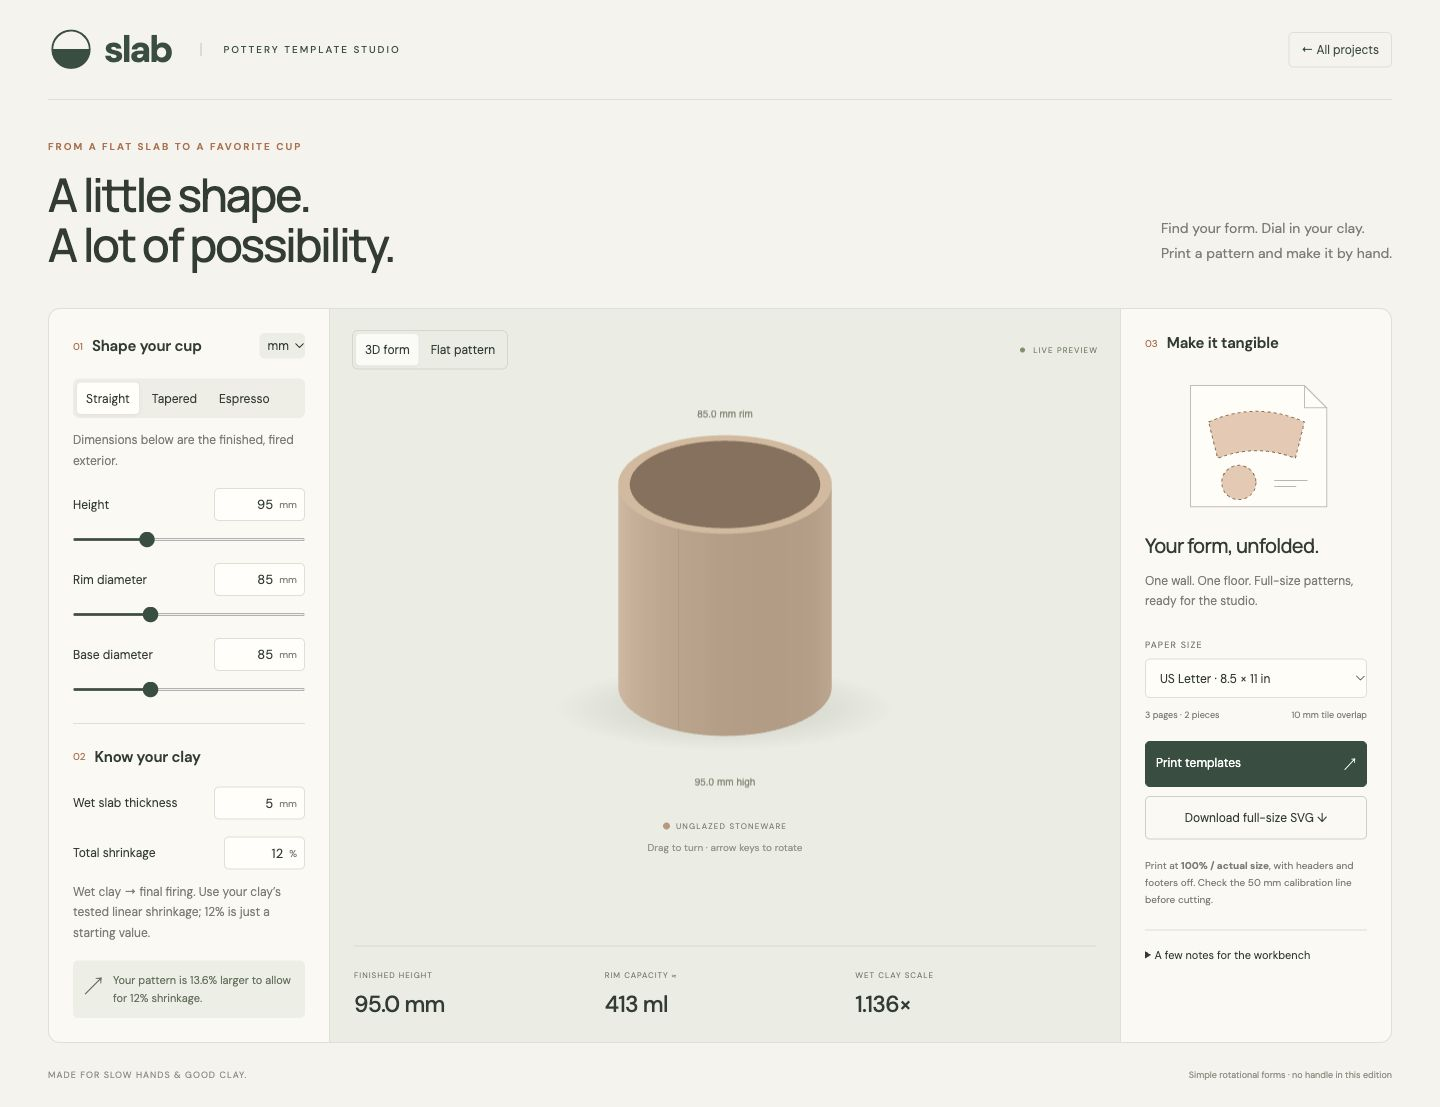
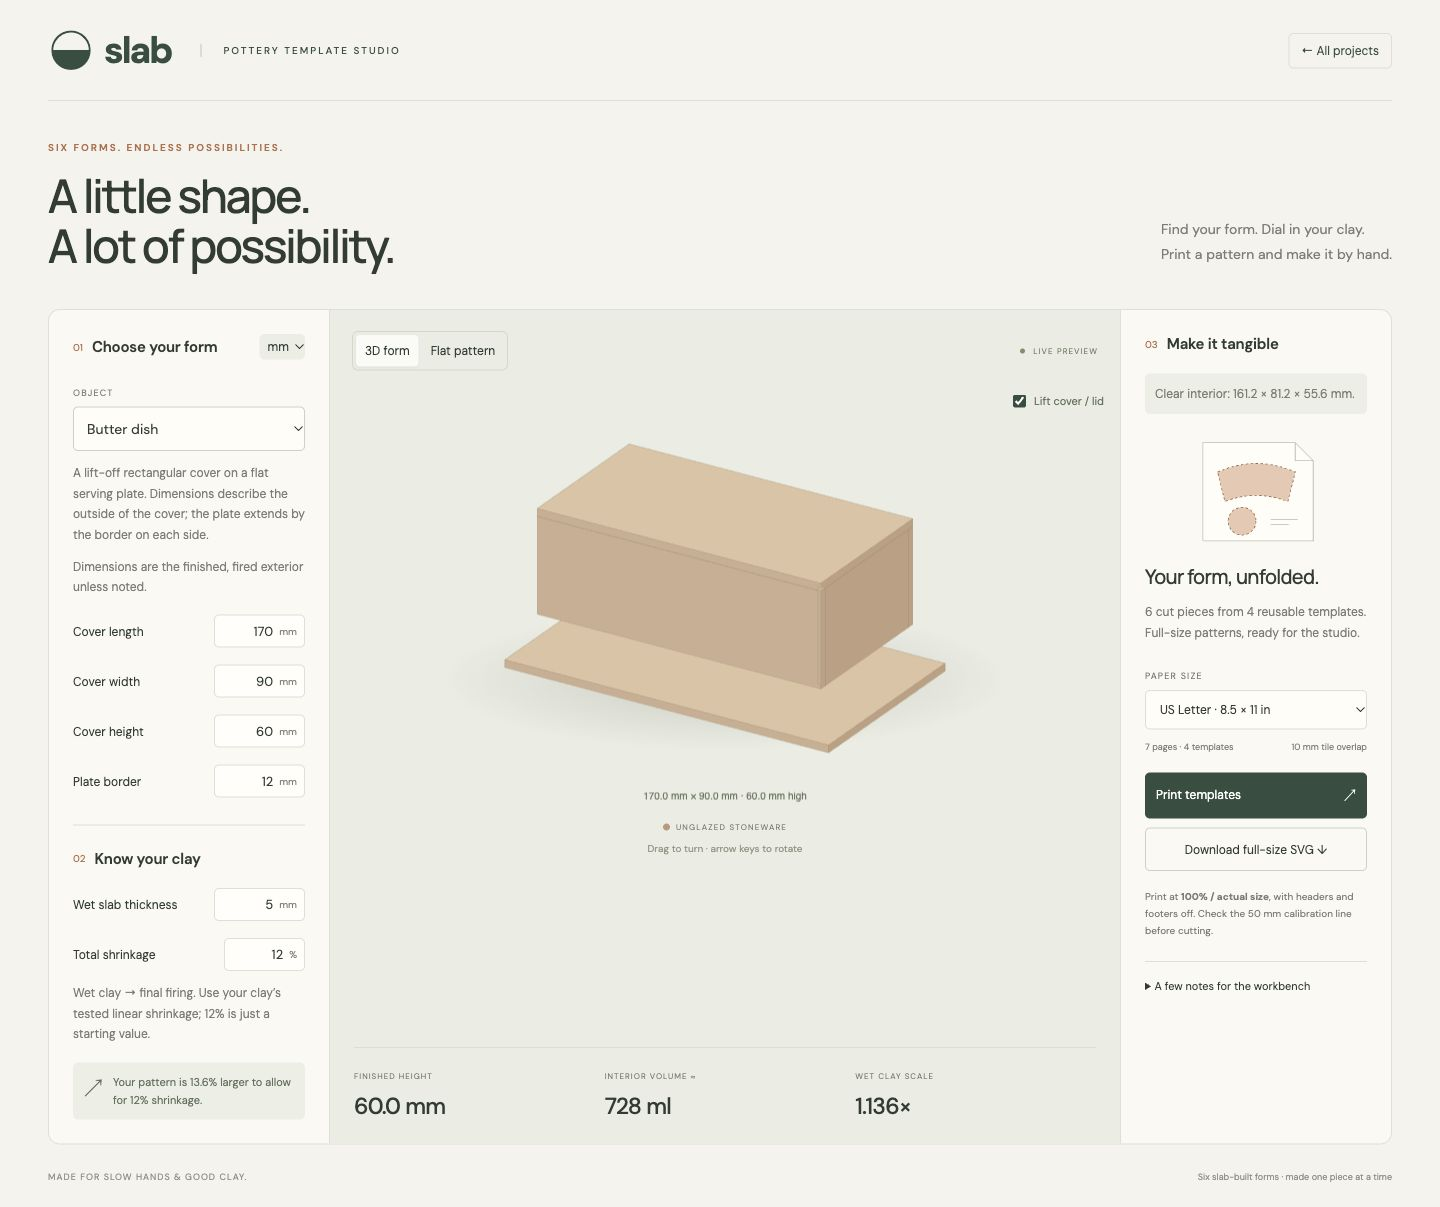
Add five parametric pottery forms with printable parts

diff --git a/pottery-template/index.html b/pottery-template/index.html
@@ -1,21 +1,17 @@
 <!doctype html>
-<html lang="en"><head><meta charset="utf-8"><meta name="viewport" content="width=device-width, initial-scale=1"><meta name="theme-color" content="#eeeae1"><meta name="description" content="Design a slab-built pottery cup. Adjust finished dimensions and clay shrinkage, then print full-size cutting templates."><title>Slab — a pottery template studio</title><link rel="stylesheet" href="style.css?v=2"><script type="module" src="app.mjs?v=2"></script></head>
+<html lang="en"><head><meta charset="utf-8"><meta name="viewport" content="width=device-width, initial-scale=1"><meta name="theme-color" content="#eeeae1"><meta name="description" content="Design slab-built cups, butter dishes, bowls, vases, planters, and lidded boxes. Adjust finished dimensions and clay shrinkage, then print full-size cutting templates."><title>Slab — a pottery template studio</title><link rel="stylesheet" href="style.css?v=4"><script type="module" src="app.mjs?v=4"></script></head>
 <body><main id="studio"><header><a class="brand" href="../index.html" aria-label="Slab — back to all projects"><span class="logo">◒</span> slab<span class="brand-note">POTTERY TEMPLATE STUDIO</span></a><a class="home-link" href="../index.html">← All projects</a></header>
-<section class="intro"><div><p class="eyebrow">FROM A FLAT SLAB TO A FAVORITE CUP</p><h1>A little shape.<br>A lot of possibility.</h1></div><p>Find your form. Dial in your clay.<br>Print a pattern and make it by hand.</p></section>
-<div class="workspace"><aside class="controls"><div class="section-title"><span>01</span><h2>Shape your cup</h2><select id="unit" aria-label="Measurement unit"><option value="mm">mm</option><option value="in">in</option></select></div>
-<div class="presets" aria-label="Cup presets"><button data-preset="straight" class="active">Straight</button><button data-preset="taper">Tapered</button><button data-preset="small">Espresso</button></div>
-<p class="hint">Dimensions below are the finished, fired exterior.</p>
-<div class="field"><label for="height">Height</label><div><input id="height" type="number" min="40" max="220" step="1" value="95"><span class="unit">mm</span></div></div><input class="slider" id="heightRange" aria-label="Height slider" type="range" min="40" max="220" value="95">
-<div class="field"><label for="top">Rim diameter</label><div><input id="top" type="number" min="40" max="180" value="85"><span class="unit">mm</span></div></div><input class="slider" id="topRange" aria-label="Rim diameter slider" type="range" min="40" max="180" value="85">
-<div class="field"><label for="bottom">Base diameter</label><div><input id="bottom" type="number" min="40" max="180" value="85"><span class="unit">mm</span></div></div><input class="slider" id="bottomRange" aria-label="Base diameter slider" type="range" min="40" max="180" value="85">
+<section class="intro"><div><p class="eyebrow">SIX FORMS. ENDLESS POSSIBILITIES.</p><h1>A little shape.<br>A lot of possibility.</h1></div><p>Find your form. Dial in your clay.<br>Print a pattern and make it by hand.</p></section>
+<div class="workspace"><aside class="controls"><div class="section-title"><span>01</span><h2>Choose your form</h2><select id="unit" aria-label="Measurement unit"><option value="mm">mm</option><option value="in">in</option></select></div>
+<label class="paper-label" for="form">OBJECT</label><select id="form"><option value="cup">Cup</option><option value="butter">Butter dish</option><option value="bowl">Shallow bowl</option><option value="vase">Vase</option><option value="planter">Rectangular planter</option><option value="box">Lidded box</option></select><p class="hint" id="formDescription"></p><p class="hint">Dimensions are the finished, fired exterior unless noted.</p><div id="dimensions"></div>
 <div class="section-title divided"><span>02</span><h2>Know your clay</h2></div>
 <div class="field"><label for="thickness">Wet slab thickness</label><div><input id="thickness" type="number" min="2" max="12" step="0.5" value="5"><span class="unit">mm</span></div></div>
 <div class="field"><label for="shrink">Total shrinkage</label><div><input id="shrink" type="number" min="0" max="25" step="0.5" value="12"><span>%</span></div></div>
 <p class="hint">Wet clay → final firing. Use your clay’s tested linear shrinkage; 12% is just a starting value.</p><p id="error" role="alert"></p>
 <div class="clay-note"><span>↗</span><p id="shrinkNote"></p></div></aside>
 <section class="visual"><div class="view-bar"><div class="tabs" role="group" aria-label="Preview mode"><button id="formTab" class="active">3D form</button><button id="patternTab">Flat pattern</button></div><span class="live"><i></i> LIVE PREVIEW</span></div>
-<div id="formView"><canvas id="cup" aria-label="Three-dimensional preview of the finished cup. Drag to rotate." tabindex="0"></canvas><div class="preview-caption"><span class="clay-dot"></span> UNGLAZED STONEWARE <span>Drag to turn · arrow keys to rotate</span></div></div>
+<div id="formView"><label id="lidControl" hidden><input id="liftLid" type="checkbox" checked> Lift cover / lid</label><canvas id="cup" aria-label="Three-dimensional preview of the finished object. Drag to rotate." tabindex="0"></canvas><div class="preview-caption"><span class="clay-dot"></span> UNGLAZED STONEWARE <span>Drag to turn · arrow keys to rotate</span></div></div>
 <div id="patternView" hidden><div id="flat"></div><p class="pattern-caption">Wet clay cutting patterns · preview is not to scale</p></div>
-<div class="stats"><div><span>FINISHED HEIGHT</span><strong id="statHeight"></strong></div><div><span>RIM CAPACITY ≈</span><strong id="statVolume"></strong></div><div><span>WET CLAY SCALE</span><strong id="statScale"></strong></div></div></section>
-<aside class="output"><div class="section-title"><span>03</span><h2>Make it tangible</h2></div><div class="paper-illustration"><svg viewBox="0 0 220 145" aria-hidden="true"><path d="M45 13H158L180 35V133H45Z" fill="#fffdf7" stroke="#c2beb3"/><path d="M158 13V35H180" fill="none" stroke="#c2beb3"/><path d="M63 49 Q110 28 158 49L149 85Q110 70 72 85Z" fill="#e9c8b2" stroke="#946c51" stroke-dasharray="3 3"/><circle cx="93" cy="109" r="17" fill="#e9c8b2" stroke="#946c51" stroke-dasharray="3 3"/><path d="M128 107H161M128 113H150" stroke="#bcb7ac"/></svg></div><h3>Your form, unfolded.</h3><p class="hint">One wall. One floor. Full-size patterns, ready for the studio.</p><label class="paper-label" for="paper">PAPER SIZE</label><select id="paper"><option value="letter">US Letter · 8.5 × 11 in</option><option value="a4">A4 · 210 × 297 mm</option></select><div class="print-summary"><span id="pageCount"></span><span>10 mm tile overlap</span></div><button class="primary" id="print">Print templates <span>↗</span></button><button class="secondary" id="download">Download full-size SVG ↓</button><p class="print-help">Print at <b>100% / actual size</b>, with headers and footers off. Check the 50 mm calibration line before cutting.</p><details><summary>A few notes for the workbench</summary><ol><li>Print, trim the tile margins, and match the overlap marks. Tape the wall pages together.</li><li>Roll a slab to your chosen wet thickness. Cut one wall and one floor.</li><li>Join the wall edges with a butt seam: no overlap allowance is added. Score and slip.</li><li>Stand the wall on top of the floor disk. Score, slip, compress, and bevel the contact edges as needed.</li><li>Dry evenly. A test piece is the best way to tune shrinkage and fit.</li></ol></details></aside></div>
-<footer><span>MADE FOR SLOW HANDS & GOOD CLAY.</span><span>Simple rotational forms · no handle in this edition</span></footer></main><div id="printPages"></div></body></html>
+<div class="stats"><div><span>FINISHED HEIGHT</span><strong id="statHeight"></strong></div><div><span>INTERIOR VOLUME ≈</span><strong id="statVolume"></strong></div><div><span>WET CLAY SCALE</span><strong id="statScale"></strong></div></div></section>
+<aside class="output"><div class="section-title"><span>03</span><h2>Make it tangible</h2></div><p id="interior" class="hint"></p><div class="paper-illustration"><svg viewBox="0 0 220 145" aria-hidden="true"><path d="M45 13H158L180 35V133H45Z" fill="#fffdf7" stroke="#c2beb3"/><path d="M158 13V35H180" fill="none" stroke="#c2beb3"/><path d="M63 49 Q110 28 158 49L149 85Q110 70 72 85Z" fill="#e9c8b2" stroke="#946c51" stroke-dasharray="3 3"/><circle cx="93" cy="109" r="17" fill="#e9c8b2" stroke="#946c51" stroke-dasharray="3 3"/><path d="M128 107H161M128 113H150" stroke="#bcb7ac"/></svg></div><h3>Your form, unfolded.</h3><p class="hint"><span id="partsSummary"></span> Full-size patterns, ready for the studio.</p><label class="paper-label" for="paper">PAPER SIZE</label><select id="paper"><option value="letter">US Letter · 8.5 × 11 in</option><option value="a4">A4 · 210 × 297 mm</option></select><div class="print-summary"><span id="pageCount"></span><span>10 mm tile overlap</span></div><button class="primary" id="print">Print templates <span>↗</span></button><button class="secondary" id="download">Download full-size SVG ↓</button><p class="print-help">Print at <b>100% / actual size</b>, with headers and footers off. Check the 50 mm calibration line before cutting.</p><details><summary>A few notes for the workbench</summary><ol id="assembly"><li>Print, trim the tile margins, and match the overlap marks. Tape the wall pages together.</li><li>Roll a slab to your chosen wet thickness. Cut one wall and one floor.</li><li>Join the wall edges with a butt seam: no overlap allowance is added. Score and slip.</li><li>Stand the wall on top of the floor disk. Score, slip, compress, and bevel the contact edges as needed.</li><li>Dry evenly. A test piece is the best way to tune shrinkage and fit.</li></ol></details></aside></div>
+<footer><span>MADE FOR SLOW HANDS & GOOD CLAY.</span><span>Six slab-built forms · made one piece at a time</span></footer></main><div id="printPages"></div></body></html>

diff --git a/pottery-template/style.css b/pottery-template/style.css
@@ -3,3 +3,4 @@
 @media print{body{margin:0;background:white}#studio{display:none}#printPages{display:block}.sheet{position:relative;break-after:page;page-break-after:always;overflow:hidden;background:white;color:black}.sheet:last-child{break-after:auto;page-break-after:auto}.sheet h2{position:absolute;top:9mm;left:12mm;font:10pt Arial;margin:0}.sheet .meta{position:absolute;top:15mm;left:12mm;font:7pt Arial}.sheet>svg{position:absolute;left:12mm;top:24mm}.sheet .foot{position:absolute;bottom:6mm;left:12mm;font:7pt Arial;right:12mm}.sheet .calibration{position:absolute;bottom:12mm;left:12mm;width:50mm;border-top:.3mm solid black;font:6pt Arial;text-align:center}}
 
 .home-link{font-size:12px;color:var(--green);text-decoration:none;border:1px solid var(--line);border-radius:5px;padding:9px 12px;white-space:nowrap}.home-link:hover{background:#e8ecdf}@media(max-width:650px){.brand-note{display:none}.home-link{font-size:11px}}
+#form{width:100%;padding:11px 9px;border:1px solid #cdd2c5;border-radius:5px;background:#fffdf8;font-size:14px}#dimensions{margin-bottom:20px}#lidControl{position:absolute;right:16px;top:0;font-size:11px;color:#63715c;z-index:1;display:flex;gap:5px;align-items:center}#lidControl input{accent-color:var(--green)}#flat{overflow:auto;max-height:490px}#flat svg{height:auto;min-height:340px}#patternView{max-height:570px}.paper-illustration{max-width:180px}#interior{padding:10px;background:#ecefe5;border-radius:5px}

diff --git a/index.html b/index.html
@@ -369,11 +369,11 @@
         <div class="grid">
             <div class="card">
                 <a class="card-preview" href="pottery-template/" aria-label="Open Slab pottery templates">
-                    <img src="shared/previews/pottery-template.jpg" alt="Slab pottery designer showing a cup and adjustable dimensions" width="1440" height="1000" loading="lazy" decoding="async">
+                    <img src="shared/previews/pottery-template.jpg" alt="Slab pottery designer showing a butter dish and adjustable dimensions" width="1440" height="1000" loading="lazy" decoding="async">
                 </a>
                 <div class="meta">Pottery · Parametric Design</div>
                 <h3>Slab — Pottery Templates</h3>
-                <p>Design a hand-built cup with adjustable dimensions, clay shrinkage, a 3D preview, and full-size printable wall and floor patterns.</p>
+                <p>Design cups, butter dishes, bowls, vases, planters, and lidded boxes with adjustable dimensions, clay shrinkage, 3D previews, and full-size printable patterns.</p>
                 <a href="pottery-template/" class="play">Design <span class="arrow">→</span></a>
             </div>
             <div class="card">

diff --git a/pottery-template/README.md b/pottery-template/README.md
@@ -1,6 +1,6 @@
 # Slab — pottery template studio
 
-Buildless browser tool for straight or outward-tapered cups. Open `pottery-template/` through the repository's local HTTP server.
+Buildless browser tool for cups, butter dishes, shallow conical bowls, narrowing or flared vases, rectangular planters, and lidded boxes. Open `pottery-template/` through the repository's local HTTP server.
 
 - Finished exterior height and rim/base diameters, in millimeters or inches.
 - Wet slab thickness and total wet-to-fired linear shrinkage.
@@ -11,12 +11,24 @@ Buildless browser tool for straight or outward-tapered cups. Open `pottery-templ
 
 Wet dimensions = fired dimensions / (1 − shrinkage / 100). Thickness is the wet rolled slab thickness and is not independently enlarged. The floor sits beneath the wall, so its thickness is subtracted from total wet height. Wall development uses the slab's mid-thickness circumference: a rectangle for cylinders, or an annular sector for conical frustums. The floor disk matches the exterior base diameter. The side seam is a butt joint with no added overlap.
 
-Print at actual size, disable headers/footers, and verify the calibration line. Align the repeated 10 mm grid in tile overlaps. Score, slip, compress and bevel contact edges as appropriate. Uniform shrinkage and an ideal neutral surface are assumptions; clay distortion and compressed seams require testing. The canvas preview is illustrative. Handles and inward taper are outside this first version.
+Print at actual size, disable headers/footers, and verify the calibration line. Align the repeated 10 mm grid in tile overlaps. Score, slip, compress and bevel contact edges as appropriate. Uniform shrinkage and an ideal neutral surface are assumptions; clay distortion and compressed seams require testing. The canvas preview is illustrative. Vases allow inward taper. Handles and curved, non-developable surfaces are not included.
 
 ## Checks
 
-`node --test pottery-template/geometry.test.mjs`
+`node --test pottery-template/*.test.mjs`
 
 `node --check pottery-template/app.mjs`
 
 The source is also hosted through Sites as project `appgprj_6acd85a5ef308191a394800c694e517c`. The repository copy remains self-contained for GitHub Pages.
+
+## Additional forms
+
+`forms.mjs` defines each form’s controls, validation, parts, cut quantities, and assembly notes. Lengths and widths are finished exterior dimensions; slab thickness remains wet thickness.
+
+- **Butter dish:** four cover walls plus roof and a separate flat plate. Plate border is added on every side. Cover height excludes the plate. No lip or knob is included.
+- **Shallow bowl:** a conical wall and floor, with a wider permitted rim and lower height.
+- **Vase:** a cylindrical or conical wall, including a narrowing opening. The smaller sector edge is the opening for narrowing forms.
+- **Planter:** two full-length long walls, two short walls fitted between them, and a floor with three 6 mm finished drainage holes. No saucer.
+- **Lidded box:** the same corner construction, a flat lid, and two underside locator strips. Body height excludes the lid. Fired clearance applies on each side; wet strip placement is printed on its pattern.
+
+Each unique template prints once, with CUT quantities for repeated pieces. The preview offers a lifted/closed cover switch. Dimensions are retained while switching forms within the current page session. The SVG includes every unique part at actual millimeter size; follow the web assembly notes for joining and lid placement. Clay behavior and firing can change the fit.
